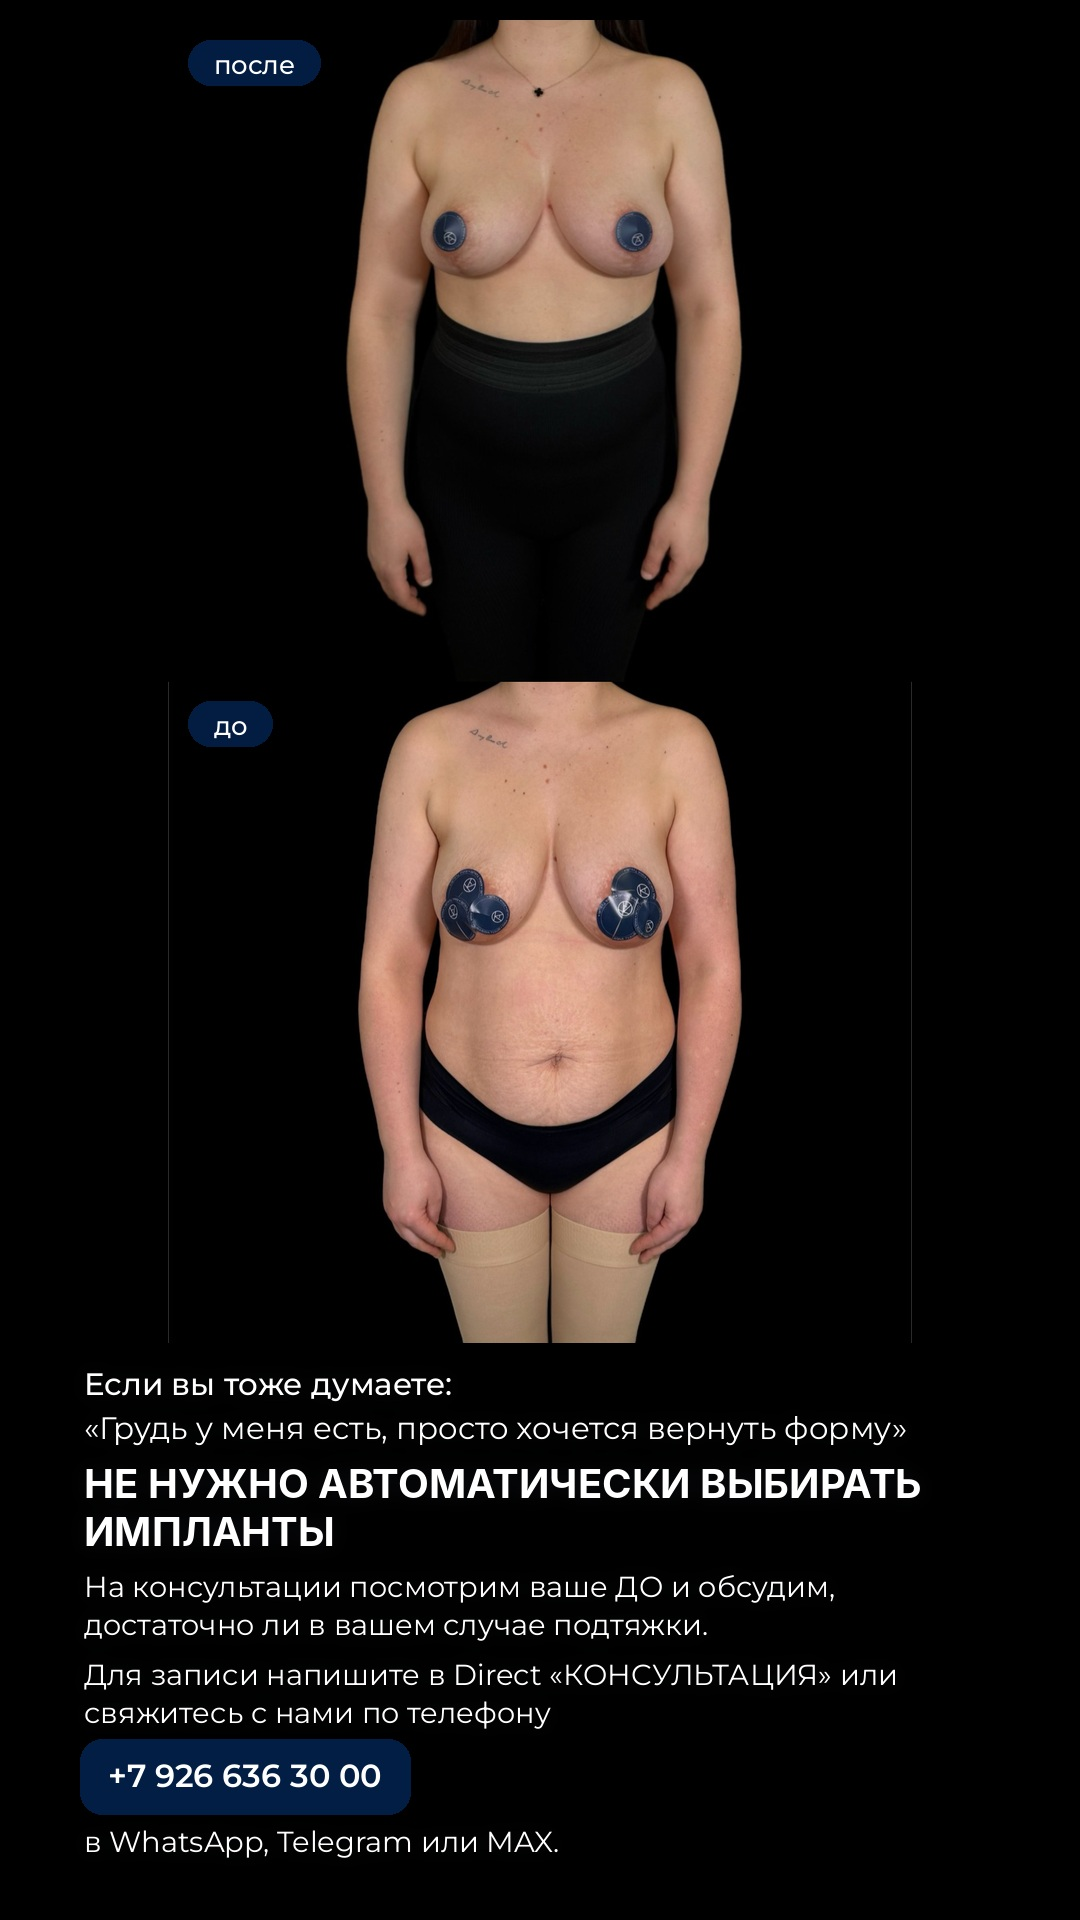
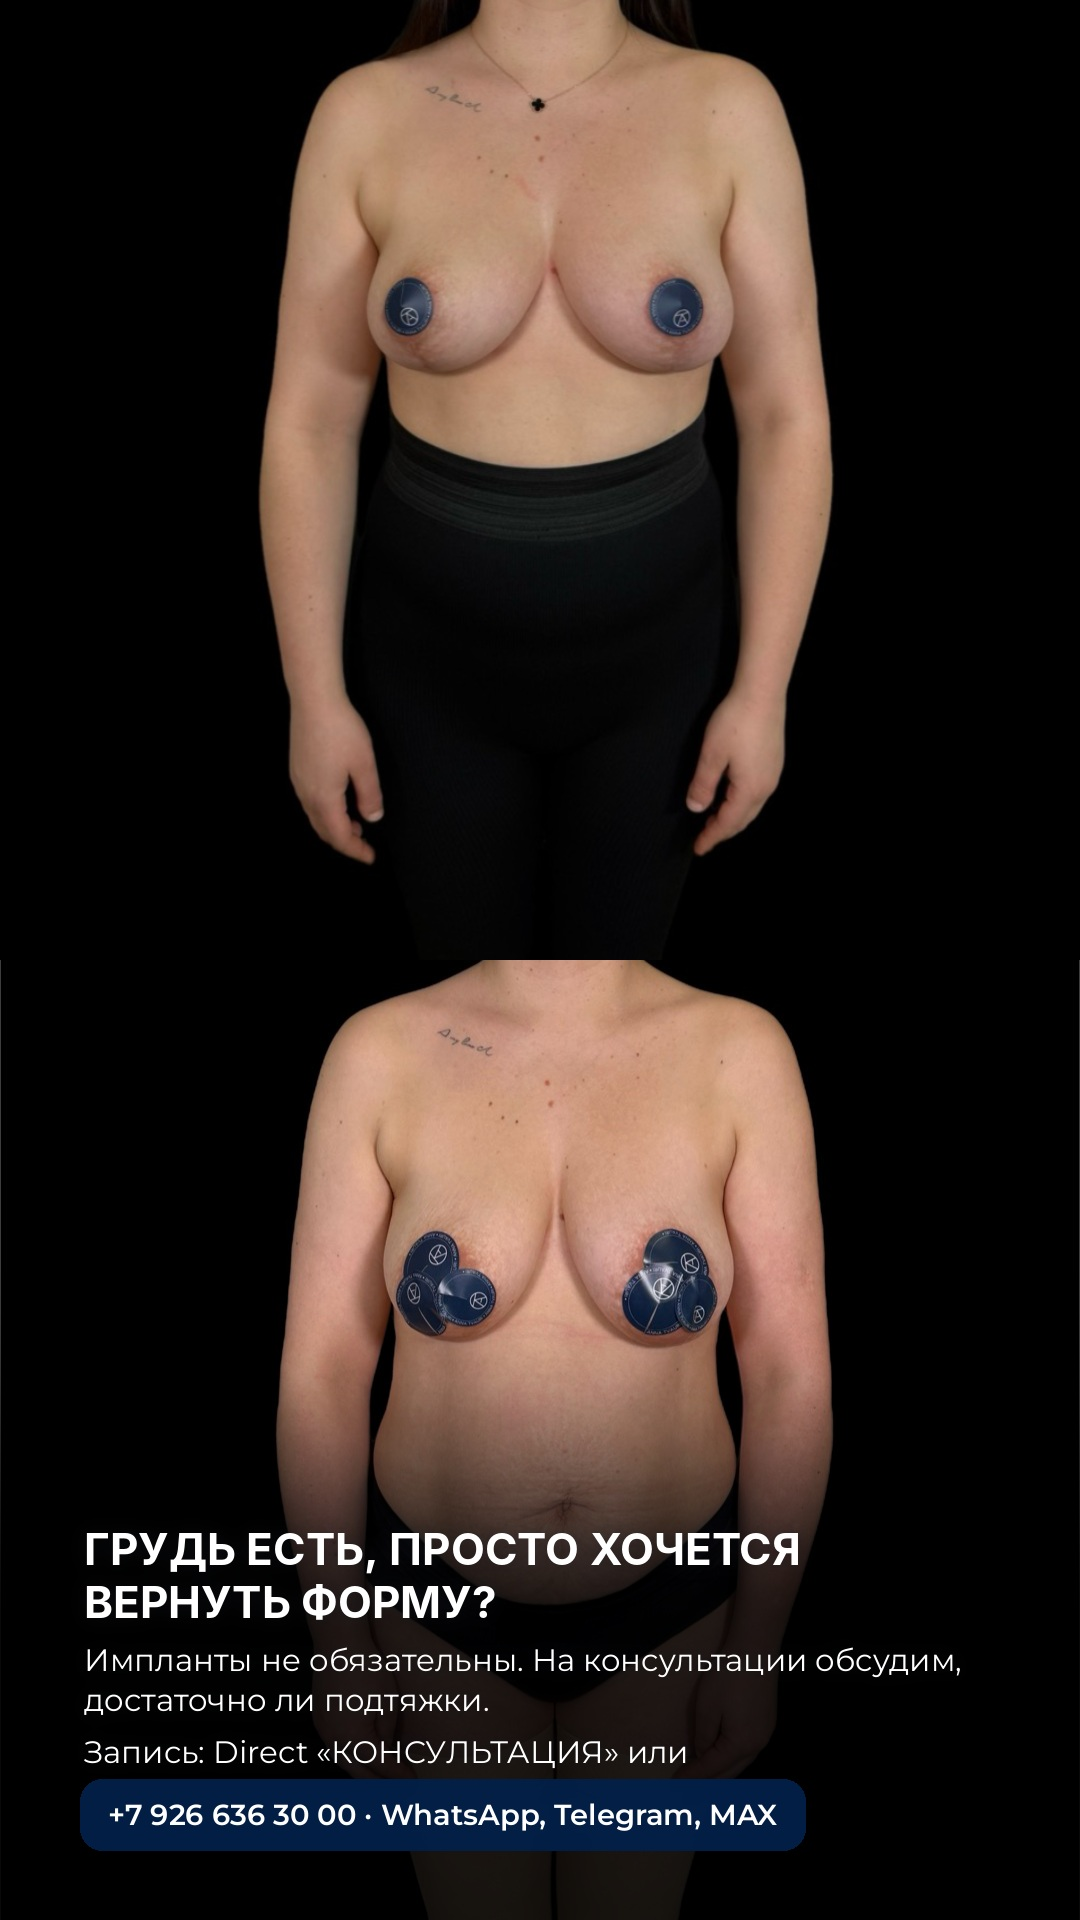
Lift-without-implants story 8: shorter text straight on the collage
Claude-Session: https://claude.ai/code/session_01DoBoRz2HUe4yvMBz6dWv4L

diff --git a/tools/stories_lift_no_volume.py b/tools/stories_lift_no_volume.py
@@ -351,24 +351,17 @@ def s4():
 
 
 def s5():
-    """the clinic's before/after collage (front) on top on its own black, the invitation below"""
-    b = (Block().body("Если вы тоже думаете:", 31, wght=500, gap=4)
-         .body("«Грудь у меня есть, просто хочется вернуть форму»", 31, gap=12)
-         .head("НЕ НУЖНО АВТОМАТИЧЕСКИ ВЫБИРАТЬ ИМПЛАНТЫ", 40, gap=12)
-         .body("На консультации посмотрим ваше ДО и обсудим, достаточно ли в вашем случае подтяжки.", 29, gap=12)
-         .body("Для записи напишите в Direct «КОНСУЛЬТАЦИЯ» или свяжитесь с нами по телефону", 29, gap=8)
-         .plate("+7 926 636 30 00", 32, wght=600, gap=8)
-         .body("в WhatsApp, Telegram или MAX.", 29, gap=0))
-    top = H - 60 - b.h
-    col = photo("IMG_8725.PNG").resize((W, H), Image.LANCZOS)
-    a = np.asarray(col).max(2) > 22; ys, xs = np.nonzero(a)
-    col = col.crop((0, ys.min(), W, ys.max()))                     # the collage without its black top / bottom
-    ah = top - 40; s = ah / col.height; col = col.resize((int(W * s), ah), Image.LANCZOS)
-    cv = Image.new("RGB", (W, H), (0, 0, 0)); cv.paste(col, ((W - col.width) // 2, 20)); cv = cv.convert("RGBA")
-    ly = Image.new("RGBA", (W, H), (0, 0, 0, 0)); b.draw(ly, MARGIN, top)
-    for lab, yy in [("после", 40), ("до", 20 + ah // 2 + 20)]:
-        p = pill(lab, 26); ly.alpha_composite(p, ((W - col.width) // 2 + 20 if col.width < W - 200 else 40, yy))
-    cv.alpha_composite(ly); save_jpg(cv, "08_konsultaciya.jpg")
+    """the clinic's before/after collage (front) full screen; a short invitation straight on it, low on the before
+    half under the usual fade — the result on top stays open"""
+    cv = photo("IMG_8725.PNG").resize((W, H), Image.LANCZOS)
+    b = (Block().head("ГРУДЬ ЕСТЬ, ПРОСТО ХОЧЕТСЯ ВЕРНУТЬ ФОРМУ?", 44, gap=10)
+         .body("Импланты не обязательны. На консультации обсудим, достаточно ли подтяжки.", 31, gap=12)
+         .body("Запись: Direct «КОНСУЛЬТАЦИЯ» или", 31, gap=8)
+         .plate("+7 926 636 30 00 · WhatsApp, Telegram, MAX", 29, wght=600, gap=0))
+    top = H - 70 - b.h
+    cv = Image.fromarray((np.asarray(cv, np.float32) * (1 - fade(top + 50, 300, 0.85))).astype(np.uint8)).convert("RGBA")
+    ly = Image.new("RGBA", (W, H), (0, 0, 0, 0)); b.draw(ly, MARGIN, top); cv.alpha_composite(ly)
+    save_jpg(cv, "08_konsultaciya.jpg")
 
 
 # the clinic's before/after collages (after on top, before below), as they are — no text

diff --git a/stories_lift_no_volume/README.md b/stories_lift_no_volume/README.md
@@ -13,7 +13,7 @@
 | 5 | 05_kollazh_pryamo.jpg | коллаж клиники ДО/ПОСЛЕ спереди (IMG_8725) | без текста |
 | 6 | 06_kollazh_3-4.jpg | коллаж клиники в 3/4 (IMG_8726) | без текста |
 | 7 | 07_kollazh_sboku.jpg | коллаж клиники сбоку (IMG_8727) | без текста |
-| 8 | 08_konsultaciya.jpg | коллаж клиники ДО/ПОСЛЕ спереди (IMG_8725) сверху | Если вы тоже думаете… НЕ НУЖНО АВТОМАТИЧЕСКИ ВЫБИРАТЬ ИМПЛАНТЫ, консультация, телефон |
+| 8 | 08_konsultaciya.jpg | коллаж клиники ДО/ПОСЛЕ спереди (IMG_8725) на весь экран | коротко поверх, внизу на ДО: ГРУДЬ ЕСТЬ, ПРОСТО ХОЧЕТСЯ ВЕРНУТЬ ФОРМУ? Импланты не обязательны…, запись, телефон |
 
 Голос: `clean_speech.py IMG_5489.MOV asr/IMG_5489.MOV.json v_obem.mp4 36.1-44.1 --drawn`,
 `clean_speech.py IMG_5489.MOV asr/IMG_5489.MOV.json v_forma.mp4 29.5-33.3 --drawn`; субтитры — `subs_retext.py`.
